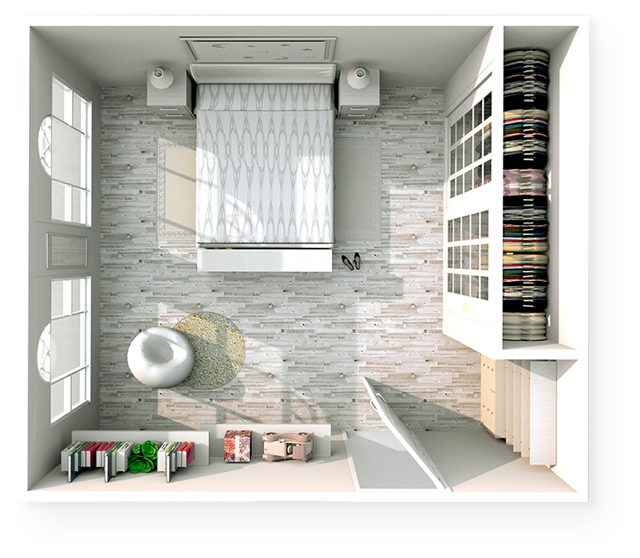
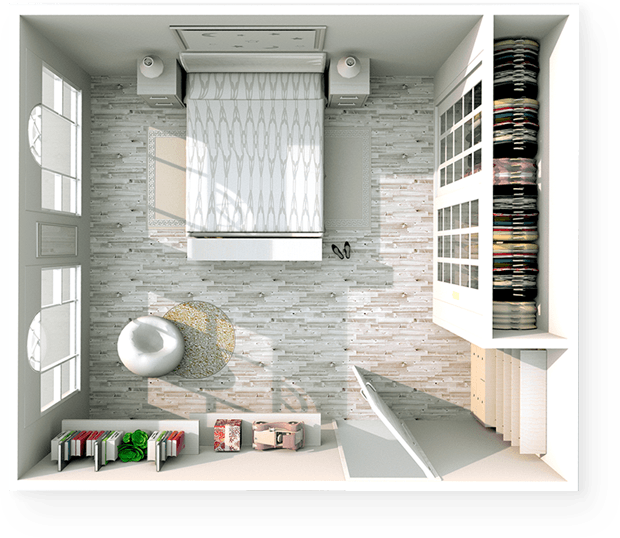
оптимизация изображений

Changed region(s): [[0.0, 0.0297, 0.95, 0.8922]]

diff --git a/index.html b/index.html
@@ -111,17 +111,17 @@
                 <h3 class="section-title portfolio-title wow fadeInLeft" data-wow-offset="200">Работая с 2007 года,<br>мы сделали более 500 ремонтов в квартирах и домах</h3>
                 <!-- /.section_title -->
                 <div class="owl-carousel owl-theme wow fadeInRight" data-wow-offset="150" data-wow-duration="2s">
-                    <div class="slider__item"><img src="src/img/portfolio-img/slider-img-1.png" alt=""></div>
+                    <div class="slider__item"><img src="src/img/portfolio-img/slider-img-1.jpg" alt=""></div>
                     <!-- /.slider__item -->
-                    <div class="slider__item"><img src="src/img/portfolio-img/slider-img-2.png" alt=""></div>
+                    <div class="slider__item"><img src="src/img/portfolio-img/slider-img-2.jpg" alt=""></div>
                     <!-- /.slider__item -->
-                    <div class="slider__item"><img src="src/img/portfolio-img/slider-img-3.png" alt=""></div>
+                    <div class="slider__item"><img src="src/img/portfolio-img/slider-img-3.jpg" alt=""></div>
                     <!-- /.slider__item -->
-                    <div class="slider__item"><img src="src/img/portfolio-img/slider-img-1.png" alt=""></div>
+                    <div class="slider__item"><img src="src/img/portfolio-img/slider-img-1.jpg" alt=""></div>
                     <!-- /.slider__item -->
-                    <div class="slider__item"><img src="src/img/portfolio-img/slider-img-2.png" alt=""></div>
+                    <div class="slider__item"><img src="src/img/portfolio-img/slider-img-2.jpg" alt=""></div>
                     <!-- /.slider__item -->
-                    <div class="slider__item"><img src="src/img/portfolio-img/slider-img-3.png" alt=""></div>
+                    <div class="slider__item"><img src="src/img/portfolio-img/slider-img-3.jpg" alt=""></div>
                     <!-- /.slider__item -->
                 </div>
                 <!-- /.slider -->
